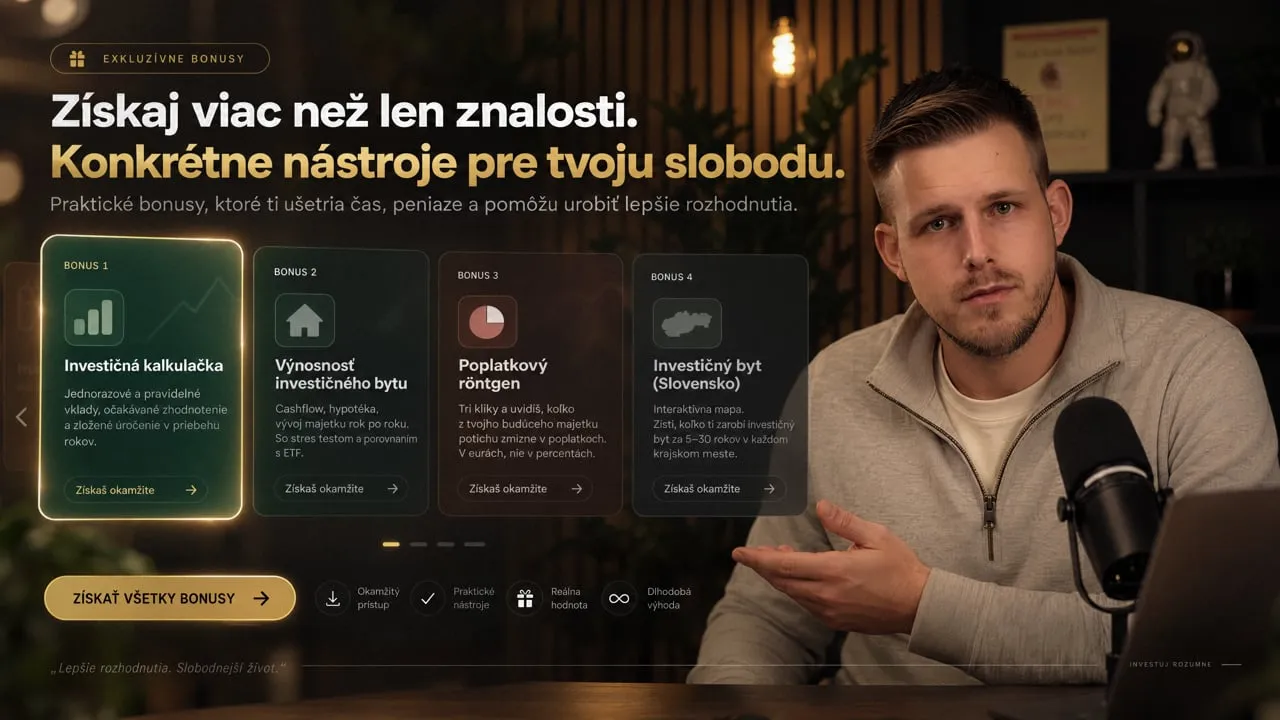
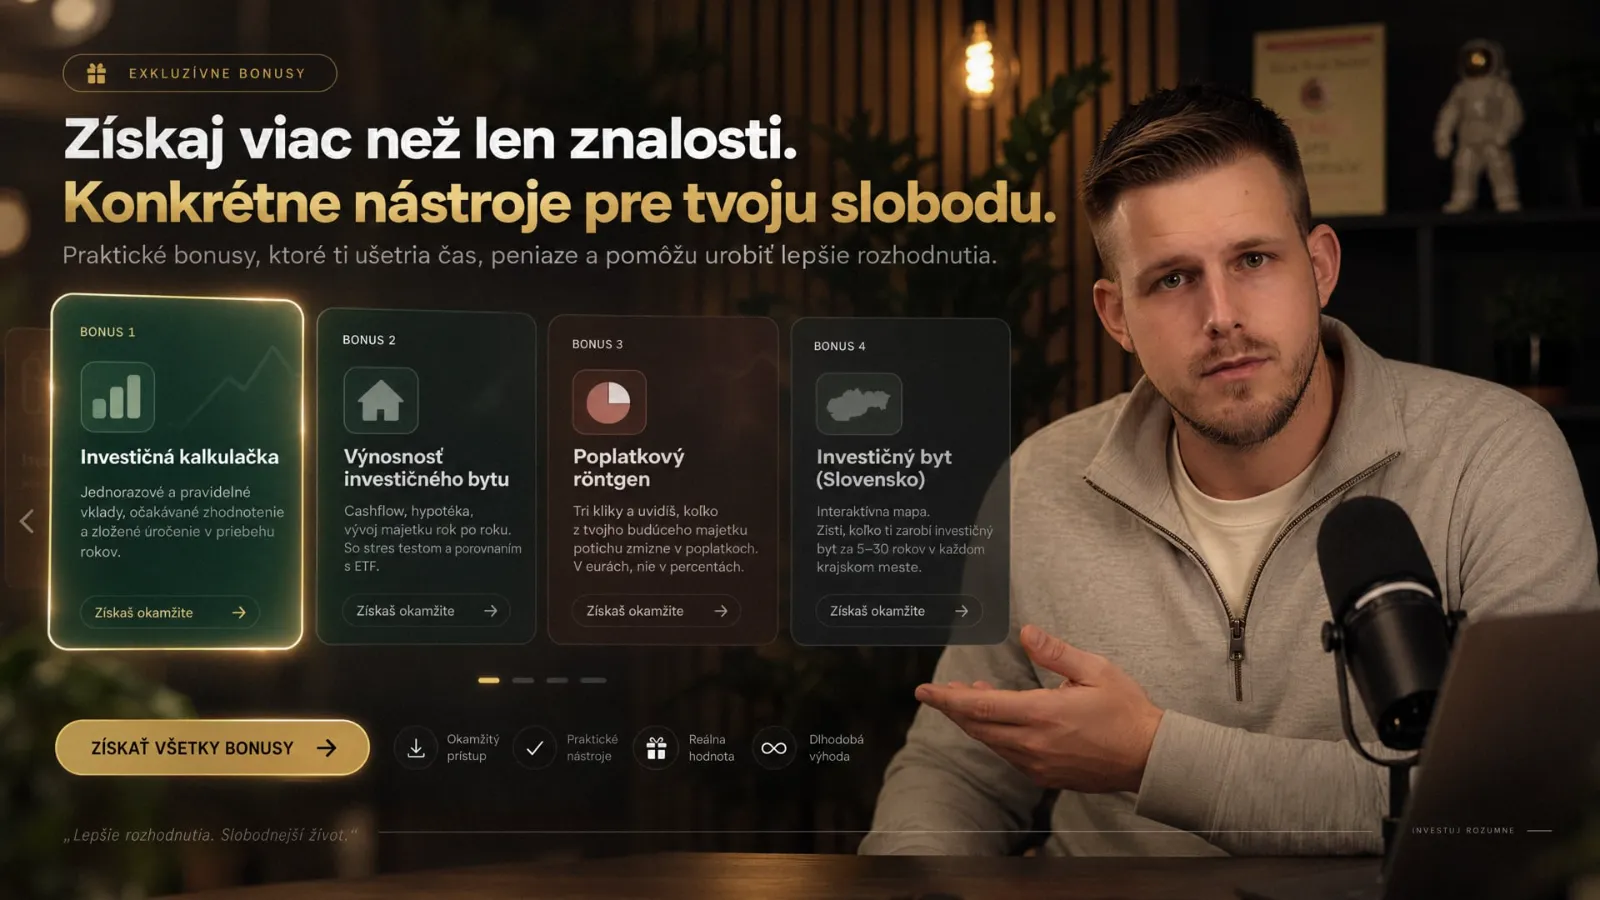
Bonusy: úvodné video celé a neorezané (16:9) s krátkym popisom, ostrejší poster 1600px

Changed region(s): [[0.0625, 0.4889, 0.1562, 0.5194]]

diff --git a/src/pages/kalkulacky/bonusy-dashboard.css b/src/pages/kalkulacky/bonusy-dashboard.css
@@ -129,29 +129,24 @@
   .bonusy .bz-glyph--map, .bonusy.kb-locked .bz-glyph--map { left: auto; right: 1.375rem; margin-left: 0; top: 1.5rem; width: 10rem; height: 5rem; }
 }
 
-/* ------------------------------ Video: ako sa zorientovať v bonusoch ------------------------------ */
-.bonusy .bz-guide { display: grid; grid-template-columns: 1fr; max-width: 72rem; margin: 2.5rem auto 0; border-radius: 1.75rem; overflow: hidden; background: var(--bz-ink); color: #f3e9dd; }
-@media (min-width: 900px) { .bonusy .bz-guide { grid-template-columns: minmax(0, 5fr) minmax(0, 7fr); margin-top: 3rem; } }
-.bonusy .bz-guide-copy { order: 2; display: flex; flex-direction: column; align-items: flex-start; padding: 1.625rem 1.5rem 1.75rem; }
-@media (min-width: 900px) { .bonusy .bz-guide-copy { order: 1; padding: 2.5rem 2.25rem; } }
-.bonusy .bz-guide-title { margin: 0.875rem 0 0; font-family: var(--font-serif); font-size: clamp(1.625rem, 2.6vw, 2.25rem); line-height: 1.08; font-weight: 700; letter-spacing: -0.02em; color: #f3e9dd; text-wrap: balance; }
-.bonusy .bz-guide-title em { font-style: italic; font-weight: 700; color: var(--bz-gold); }
-.bonusy .bz-guide-text { margin: 0.875rem 0 0; max-width: 26rem; font-size: 1rem; line-height: 1.6; color: rgba(243, 233, 221, 0.86); text-wrap: pretty; }
-.bonusy .bz-guide-chips { display: flex; flex-wrap: wrap; gap: 0.5rem; margin: 1.25rem 0 0; padding: 0; list-style: none; }
-.bonusy .bz-guide-chips li { padding: 0.375rem 0.75rem; border-radius: 9999px; background: rgba(243, 233, 221, 0.1); border: 1px solid rgba(243, 233, 221, 0.18); font-size: 0.8125rem; font-weight: 600; color: #f3e9dd; }
-.bonusy .bz-guide-cta { display: inline-flex; align-items: center; gap: 0.625rem; margin-top: 1.75rem; padding: 0.8125rem 1.375rem; border: 0; border-radius: 9999px; background: var(--bz-forest); color: #fff; font-family: var(--font-sans); font-size: 0.9375rem; font-weight: 600; cursor: pointer; transition: background 0.2s, transform 0.3s var(--bz-ease); }
-.bonusy .bz-guide-cta:hover { background: var(--bz-forest-deep); transform: translateY(-1px); }
-.bonusy .bz-guide-cta:focus-visible, .bonusy .bz-guide-play:focus-visible { outline: 2px solid var(--bz-gold); outline-offset: 3px; }
-.bonusy .bz-guide-stage { position: relative; order: 1; background: #1c1713; }
-@media (min-width: 900px) { .bonusy .bz-guide-stage { order: 2; } }
-.bonusy .bz-guide-play { position: relative; display: block; width: 100%; aspect-ratio: 16 / 9; padding: 0; border: 0; background: #1c1713; cursor: pointer; overflow: hidden; text-align: left; }
+/* ------------------------------ Video: ako sa zorientovať v bonusoch (celé, neorezané) ------------------------------ */
+.bonusy .bz-guide { max-width: 62rem; margin: 2.75rem auto 0; }
+@media (min-width: 768px) { .bonusy .bz-guide { margin-top: 3.5rem; } }
+.bonusy .bz-guide-cap { display: flex; flex-direction: column; align-items: center; gap: 0.625rem; margin: 0 0 1.25rem; text-align: center; }
+.bonusy .bz-guide-kicker { display: inline-flex; align-items: center; gap: 0.5rem; padding: 0.375rem 0.875rem; border-radius: 9999px; background: var(--bz-ivory); border: 1px solid var(--bz-hair-2); font-size: 0.75rem; font-weight: 600; letter-spacing: 0.04em; text-transform: uppercase; color: var(--bz-forest); }
+.bonusy .bz-guide-line { max-width: 40rem; font-size: 1.0625rem; line-height: 1.55; color: var(--bz-fg2); text-wrap: pretty; }
+.bonusy .bz-guide-line b { font-weight: 600; color: var(--bz-ink); }
+.bonusy .bz-guide-stage { position: relative; }
+.bonusy .bz-guide-play { position: relative; display: block; width: 100%; aspect-ratio: 16 / 9; padding: 0; border: 2px solid rgba(41, 36, 32, 0.18); outline: 1px solid rgba(41, 36, 32, 0.08); outline-offset: 7px; border-radius: 1.5rem; overflow: hidden; background: #1c1713; cursor: pointer; text-align: left; transition: border-color 0.3s, outline-color 0.3s; }
+.bonusy .bz-guide-play:hover { border-color: rgba(41, 36, 32, 0.4); outline-color: rgba(41, 36, 32, 0.16); }
+.bonusy .bz-guide-play:focus-visible { outline: 2px solid var(--bz-forest); outline-offset: 4px; }
 .bonusy .bz-guide-play img { display: block; width: 100%; height: 100%; object-fit: cover; transition: transform 0.6s var(--bz-ease); }
-.bonusy .bz-guide-play:hover img { transform: scale(1.03); }
-.bonusy .bz-guide-scrim { position: absolute; inset: 0; background: linear-gradient(to top, rgba(18, 15, 13, 0.55), rgba(18, 15, 13, 0) 55%); pointer-events: none; }
+.bonusy .bz-guide-play:hover img { transform: scale(1.015); }
 .bonusy .bz-guide-btn { position: absolute; left: 50%; top: 50%; display: inline-flex; align-items: center; justify-content: center; width: 4.5rem; height: 4.5rem; border-radius: 9999px; background: #f3e9dd; color: #292420; transform: translate(-50%, -50%); transition: transform 0.3s var(--bz-ease); }
 .bonusy .bz-guide-play:hover .bz-guide-btn { transform: translate(-50%, -50%) scale(1.06); }
+@media (max-width: 639px) { .bonusy .bz-guide-btn { width: 3.5rem; height: 3.5rem; } .bonusy .bz-guide-play { border-radius: 1rem; outline-offset: 4px; } }
 .bonusy .bz-guide-dur { position: absolute; right: 1rem; bottom: 1rem; padding: 0.375rem 0.75rem; border-radius: 9999px; background: rgba(243, 233, 221, 0.92); color: #292420; font-size: 0.75rem; font-weight: 600; }
-.bonusy .bz-guide-frame { position: relative; width: 100%; aspect-ratio: 16 / 9; background: #000; }
+.bonusy .bz-guide-frame { position: relative; width: 100%; aspect-ratio: 16 / 9; border-radius: 1.5rem; overflow: hidden; background: #000; }
+@media (max-width: 639px) { .bonusy .bz-guide-frame { border-radius: 1rem; } }
 .bonusy .bz-guide-frame iframe { position: absolute; inset: 0; width: 100%; height: 100%; border: 0; }
-@media (min-width: 900px) { .bonusy .bz-guide-play, .bonusy .bz-guide-frame { height: 100%; min-height: 22rem; aspect-ratio: auto; } }
-@media (prefers-reduced-motion: reduce) { .bonusy .bz-guide-play img, .bonusy .bz-guide-btn, .bonusy .bz-guide-cta { transition: none !important; transform: none !important; } .bonusy .bz-guide-btn { transform: translate(-50%, -50%) !important; } }
+@media (prefers-reduced-motion: reduce) { .bonusy .bz-guide-play img, .bonusy .bz-guide-btn { transition: none !important; } .bonusy .bz-guide-play:hover img { transform: none !important; } }

diff --git a/src/pages/kalkulacky/KalkulackyCategoryPage.tsx b/src/pages/kalkulacky/KalkulackyCategoryPage.tsx
@@ -36,33 +36,20 @@ const GUIDE_VIDEO = { id: "1227729734", title: "Čo tu nájdeš a kde začať", 
 const GuideVideo = () => {
   const [playing, setPlaying] = useState(false);
   const src = `https://player.vimeo.com/video/${GUIDE_VIDEO.id}?autoplay=1&title=0&portrait=0&byline=0`;
-  const play = () => setPlaying(true);
   return (
     <section className="bz-guide bz-reveal" style={{ "--i": 1 } as CSSProperties} aria-labelledby="bonusy-guide-heading">
-      <div className="bz-guide-copy">
-        <span className="bz-flag-kicker"><PlayCircle className="h-4 w-4" aria-hidden /> Video · {GUIDE_VIDEO.duration}</span>
-        <h2 id="bonusy-guide-heading" className="bz-guide-title">Nevieš, kde začať? <em>Pozri si 5 minút.</em></h2>
-        <p className="bz-guide-text">Ukážem ti, čo tu nájdeš, ktorý nástroj použiť ako prvý a ako z výsledku spraviť ďalší krok. Bez teórie, rovno k veci.</p>
-        <ul className="bz-guide-chips" aria-label="Čo sa dozvieš">
-          <li>Kde začať</li>
-          <li>Ktorý nástroj kedy</li>
-          <li>Čo s výsledkom</li>
-        </ul>
-        {!playing ? (
-          <button type="button" className="bz-guide-cta" onClick={play} data-umami-event="click_video" data-umami-event-section="bonusy-guide-cta">
-            Prehrať video <Play className="h-4 w-4" aria-hidden />
-          </button>
-        ) : null}
-      </div>
+      <p className="bz-guide-cap">
+        <span className="bz-guide-kicker"><PlayCircle className="h-4 w-4" aria-hidden /> Video · {GUIDE_VIDEO.duration}</span>
+        <span id="bonusy-guide-heading" className="bz-guide-line"><b>Nevieš, kde začať?</b> V 5 minútach ti ukážem, čo tu nájdeš, ktorý nástroj použiť ako prvý a čo s výsledkom.</span>
+      </p>
       <div className="bz-guide-stage">
         {playing ? (
           <div className="bz-guide-frame">
             <iframe src={src} title={GUIDE_VIDEO.title} allow="autoplay; fullscreen; picture-in-picture" allowFullScreen />
           </div>
         ) : (
-          <button type="button" className="bz-guide-play" onClick={play} aria-label={`Prehrať video: ${GUIDE_VIDEO.title}`} data-umami-event="click_video" data-umami-event-section="bonusy-guide">
-            <img src={guidePoster} alt="" width={1280} height={720} decoding="async" />
-            <span className="bz-guide-scrim" aria-hidden />
+          <button type="button" className={cn("bz-guide-play", focusClass)} onClick={() => setPlaying(true)} aria-label={`Prehrať video: ${GUIDE_VIDEO.title}`} data-umami-event="click_video" data-umami-event-section="bonusy-guide">
+            <img src={guidePoster} alt="" width={1600} height={900} decoding="async" />
             <span className="bz-guide-btn" aria-hidden><Play className="h-7 w-7" strokeWidth={2.5} /></span>
             <span className="bz-guide-dur" aria-hidden>{GUIDE_VIDEO.duration}</span>
           </button>
